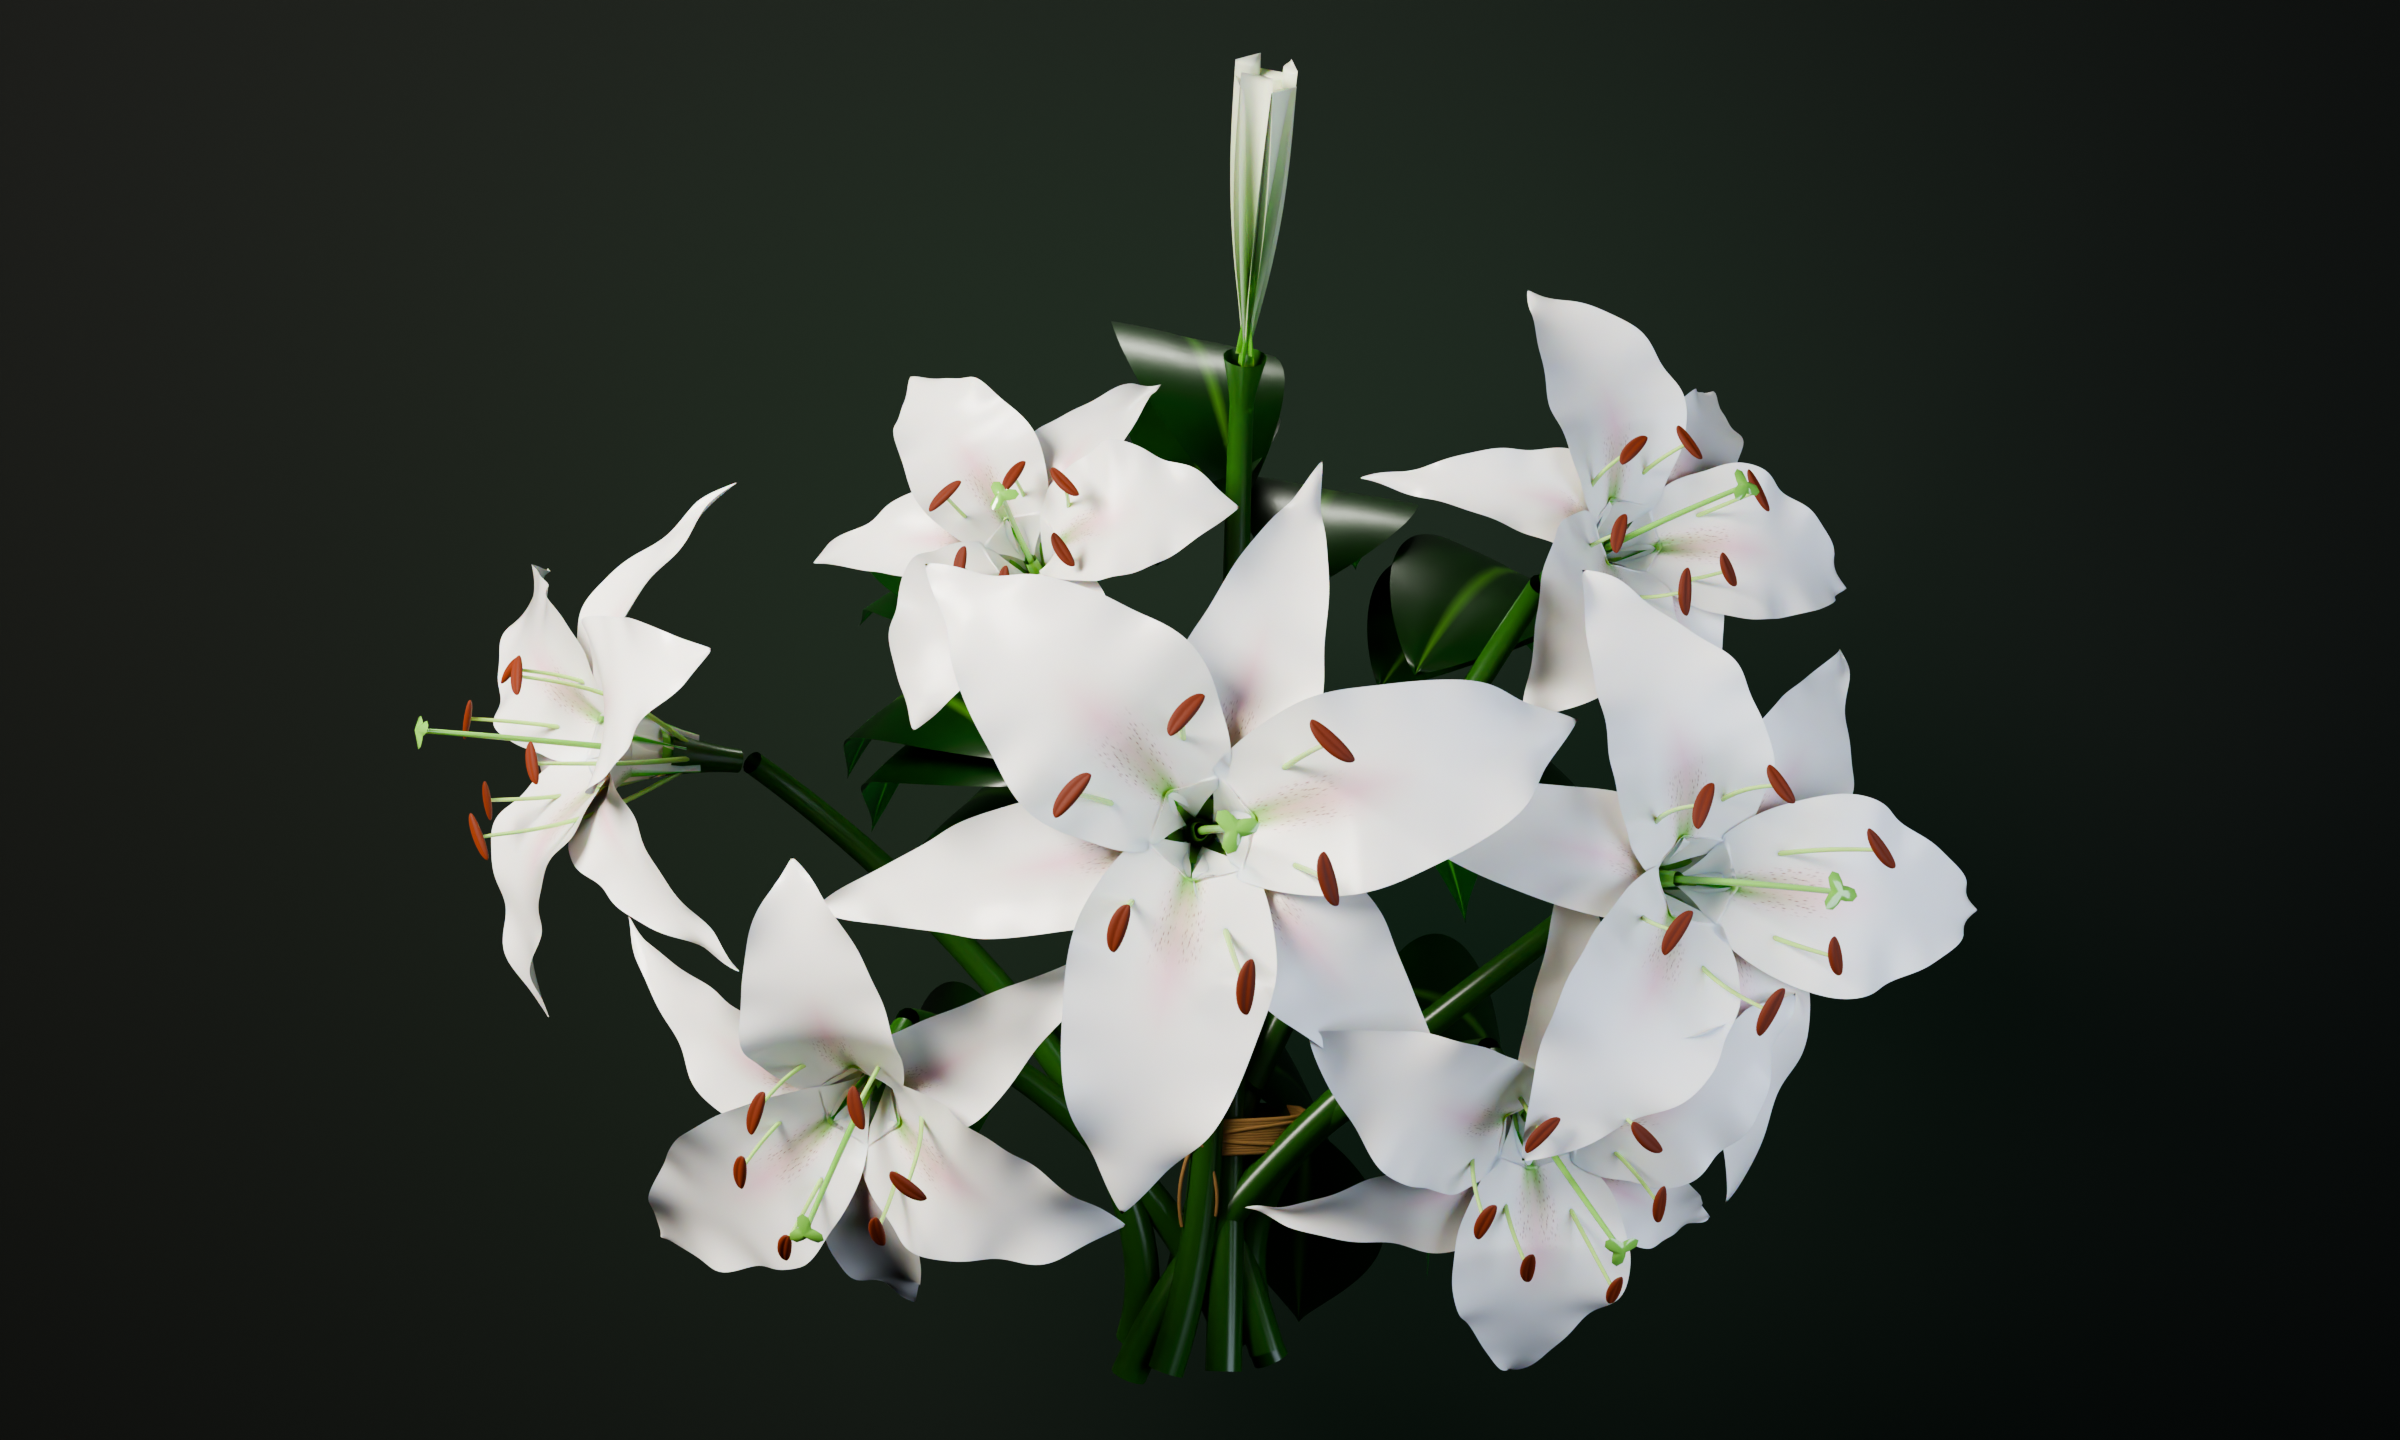
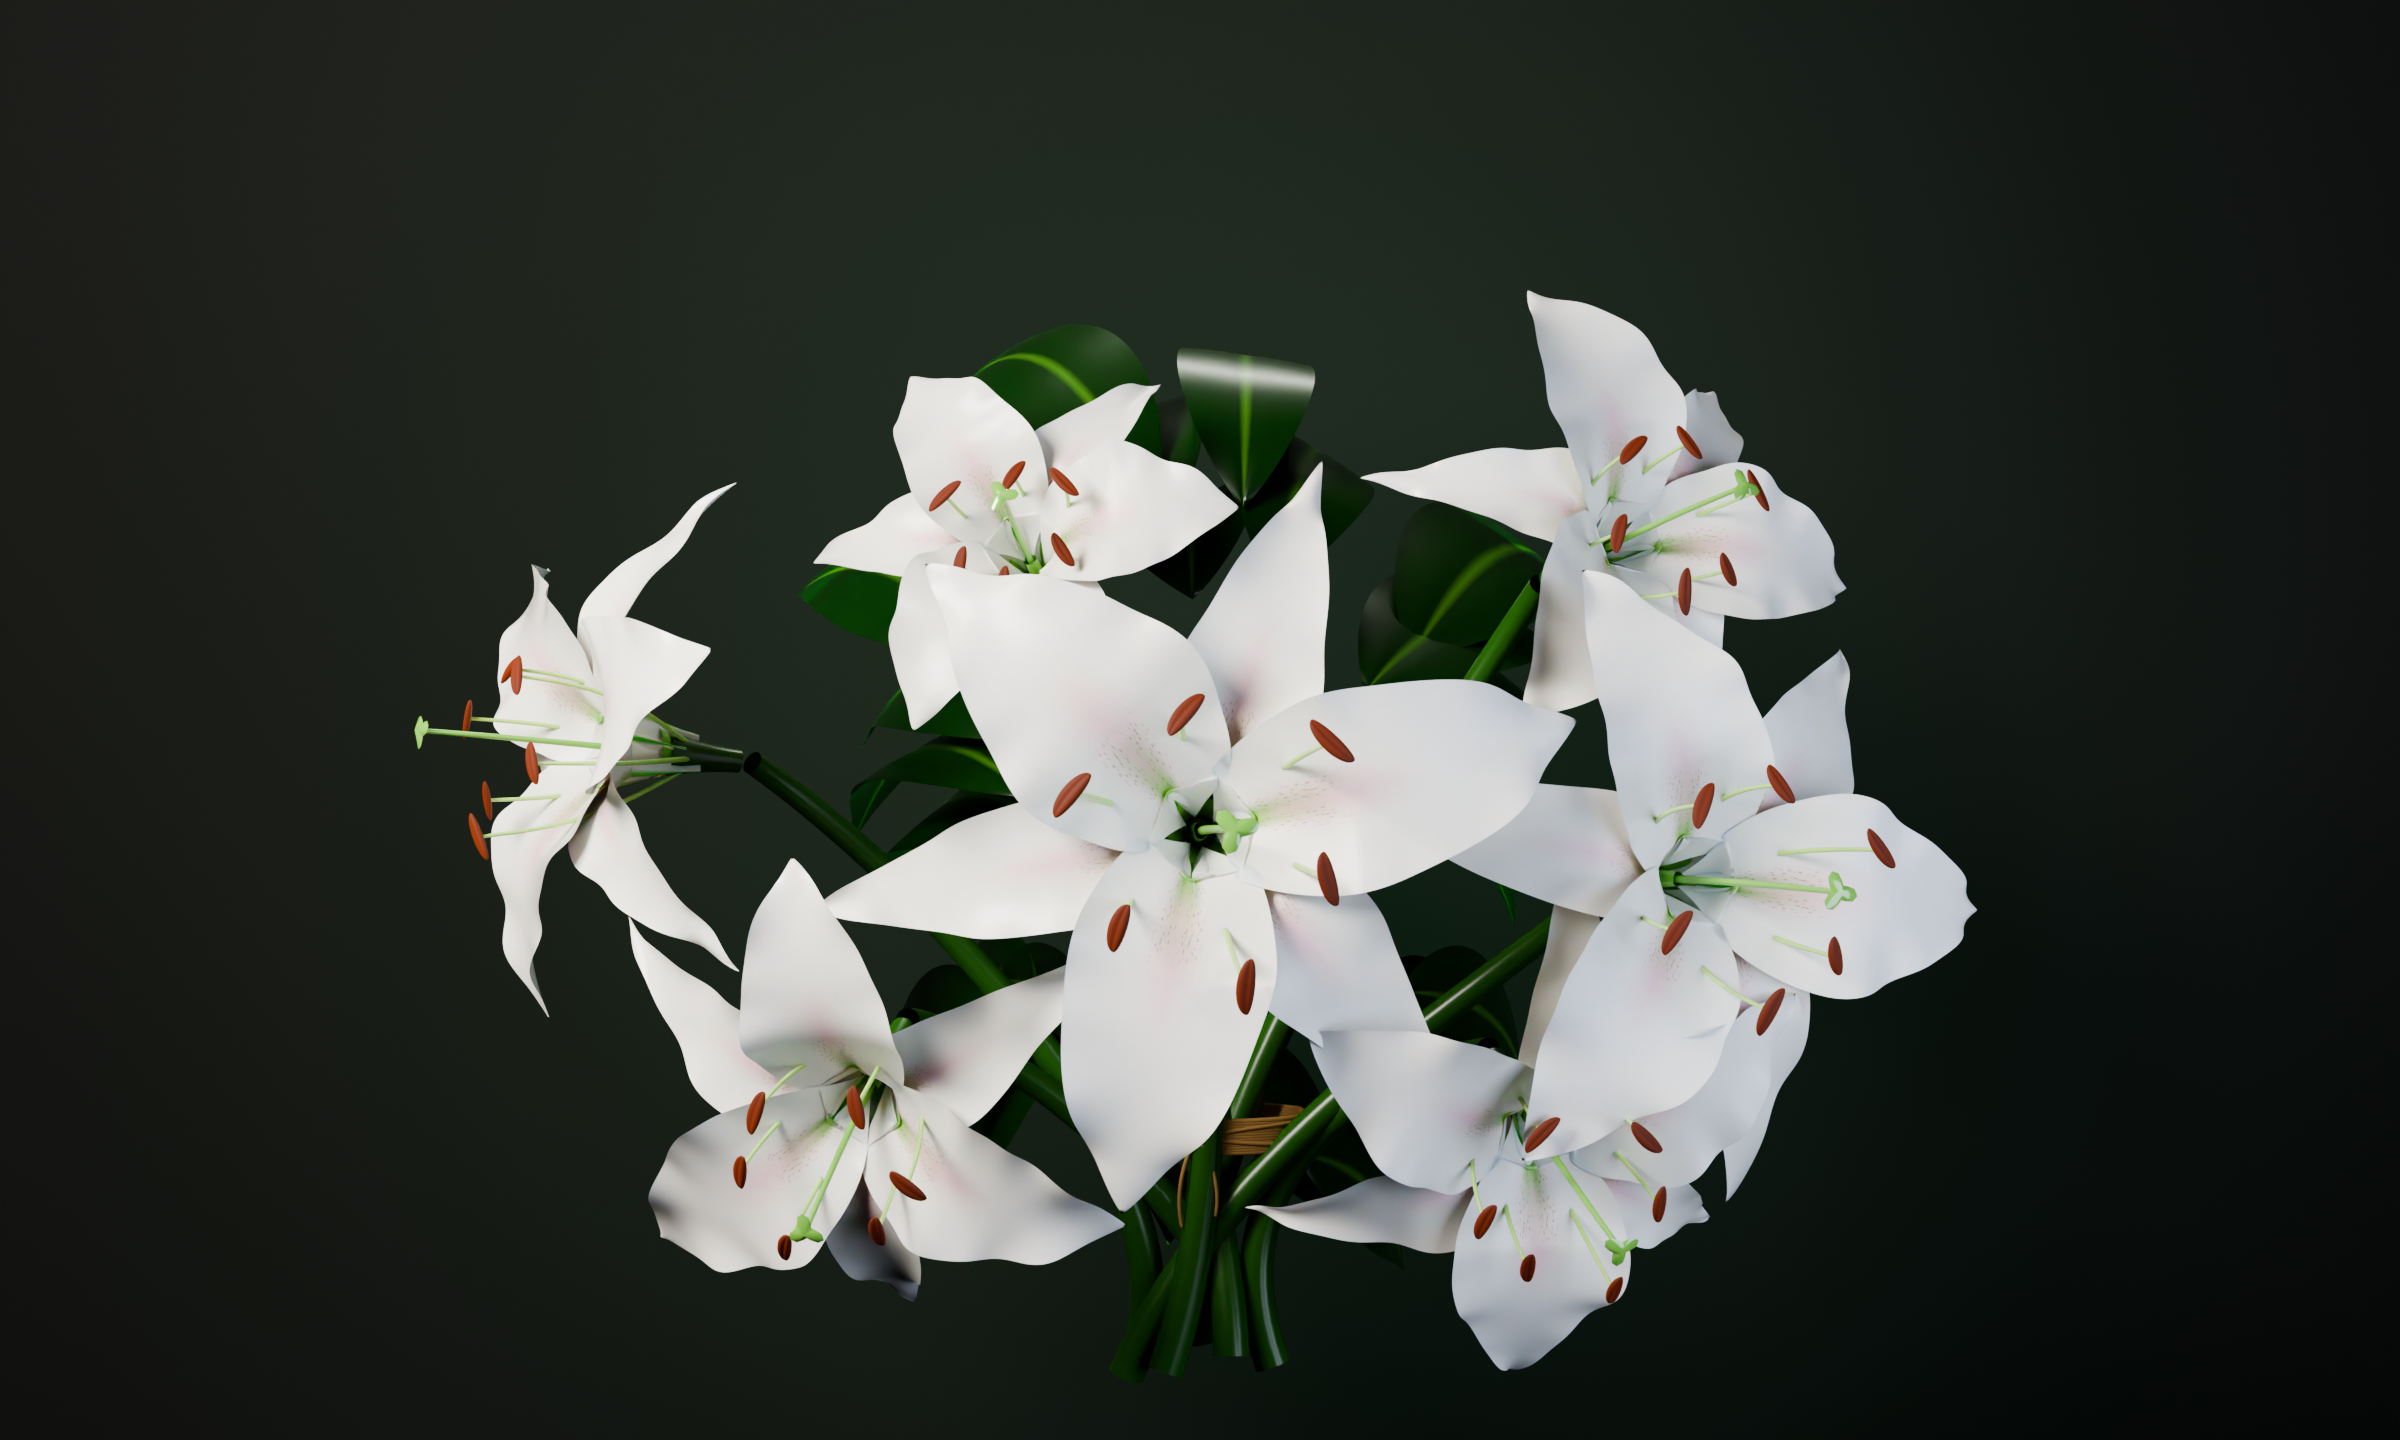
fix: remove crown apex bud sticking out from top of bouquet

diff --git a/src/math_spec.py b/src/math_spec.py
@@ -76,7 +76,7 @@ def generate_typst_panel_markup() -> str:
 
 $ "rgb" lr(( F lr(( H_0 lr(( frac(m - 1200, 720), frac(721 - n, 720) )) )), thin F lr(( H_1 lr(( frac(m - 1200, 720), frac(721 - n, 720) )) )), thin F lr(( H_2 lr(( frac(m - 1200, 720), frac(721 - n, 720) )) )) )), quad "where" thin F(x) = lr(floor.l 255 lr(( frac(1.25 x (1 + 1.25 x / L_w^2), 1 + 1.25 x) ))^(1 / 2.2) + xi_"CMOS" (m, n) floor.r), "and" $
 
-$ H_v (x, y) = sum_(k=1)^(8) lr(( product_(r=1)^(k-1) (1 - A_r (x, y)) )) lr([ U_k (x, y) L_(v, k) (x, y) + (1 - U_k (x, y)) B_v (x, y) ]), quad v in {0, 1, 2}, $
+$ H_v (x, y) = sum_(k=1)^(7) lr(( product_(r=1)^(k-1) (1 - A_r (x, y)) )) lr([ U_k (x, y) L_(v, k) (x, y) + (1 - U_k (x, y)) B_v (x, y) ]), quad v in {0, 1, 2}, $
 
 $ L_(v, k) (x, y) = bold(c)_("alb", v) (k) I_a A_"ssao" (x, y) + I_"key" lr([ bold(c)_("alb", v) (k) (d_1 S_"key" + t_1) + bold(c)_("ivory", v) b_"sub" + s_1 S_"key" ]) + I_("fill", v) + I_("rim", v), $
 

diff --git a/src/foliage.py b/src/foliage.py
@@ -667,17 +667,6 @@ class BouquetScene:
                 "opening": 0.74,
                 "is_bud": False,
                 "roll": 0.10
-            },
-            # 8. Crown Apex Developing Bud: Slender jade-and-ivory spire reaching upward to the light
-            {
-                "id": 8,
-                "center": np.array([0.08, 0.80, 0.10]),
-                "facing": normalize(np.array([0.06, 0.88, 0.46])),
-                "up": normalize(np.array([-0.05, 0.46, -0.88])),
-                "scale": 0.82,
-                "opening": 0.15,
-                "is_bud": True,
-                "roll": 0.12
             }
         ]
         
